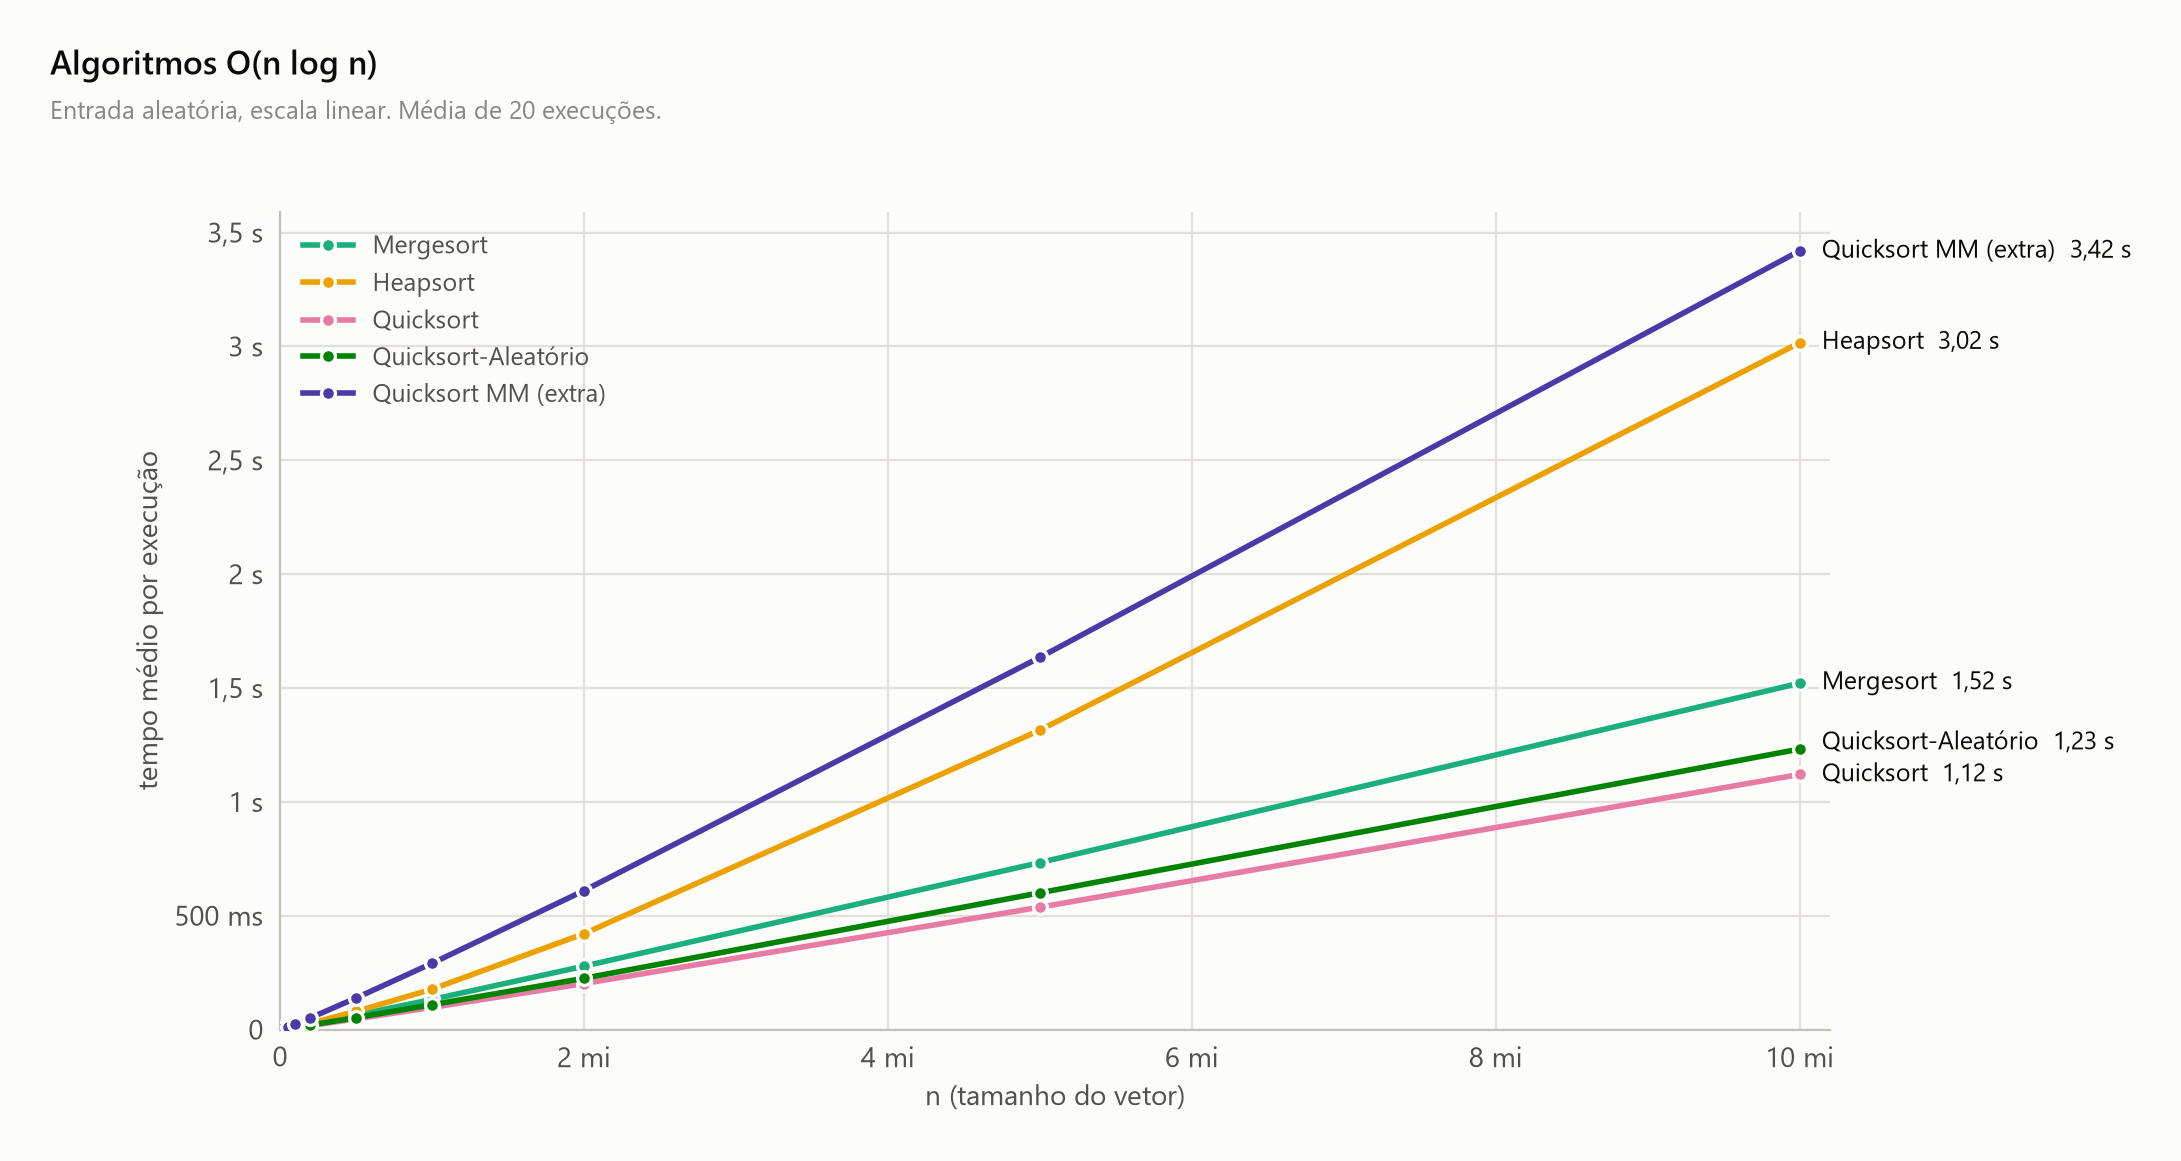
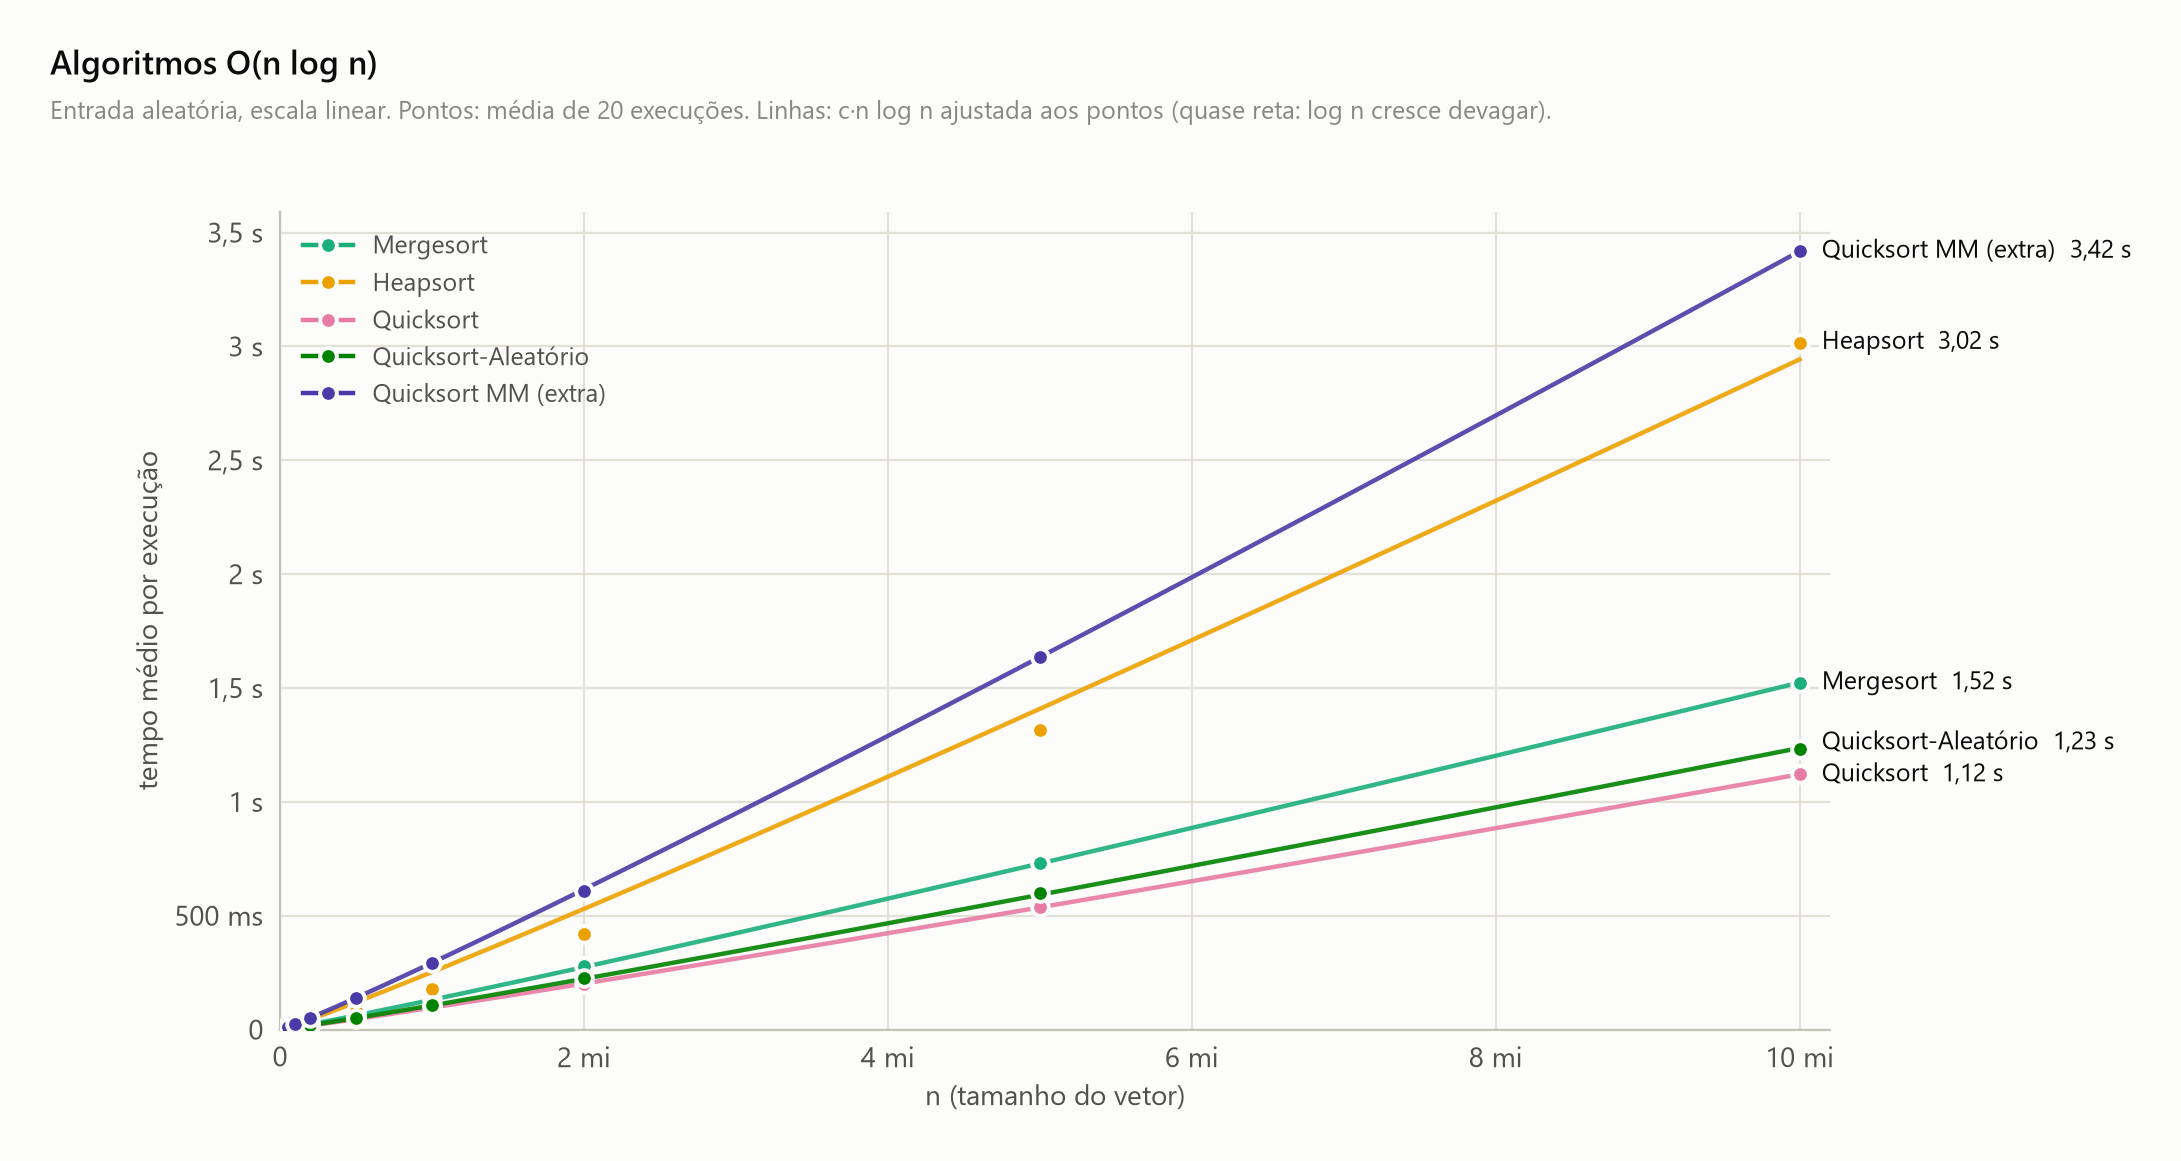
Gráficos 1 e 2: pontos medidos sobre a curva teórica ajustada
As médias passam a ser desenhadas como pontos, e por trás deles a curva
c·n² ou c·n log n ajustada por mínimos quadrados. Com os tamanhos em
progressão geométrica, ligar os pontos por retas escondia a parábola.

diff --git a/analise/analise.py b/analise/analise.py
@@ -194,6 +194,19 @@ def linha(ax, x, y, cor, rotulo=None, banda=None):
             label=rotulo, zorder=3)
 
 
+def pontos_e_curva(ax, d, classe, cor, rotulo, x_max):
+    """Media medida como pontos soltos e, por tras, a curva c*f(n) ajustada
+    por minimos quadrados (t = c*f(n), sem intercepto), desenhada continua."""
+    x, y = d["n"].to_numpy(float), d["mean"].to_numpy()
+    f = FUNCOES[classe]
+    c = np.sum(y * f(x)) / np.sum(f(x) ** 2)
+    grade = np.linspace(max(1.0, x_max / 1000), x_max, 400)
+    ax.plot(grade, c * f(grade), "-", color=cor, lw=1.6, alpha=0.9, zorder=2)
+    ax.plot(x, y, "o", color=cor, ms=6, mec=SUPERFICIE, mew=1.4, zorder=3)
+    return plt.Line2D([], [], color=cor, lw=1.6, marker="o", ms=6, mec=SUPERFICIE,
+                      mew=1.4, label=rotulo)
+
+
 def rotulos_finais(ax, itens, sep_pt=12):
     """Rotulo no fim de cada linha, afastando os que colidem.
     itens: lista de (x, y, texto, cor)."""
@@ -233,13 +246,15 @@ alcas_ent = [plt.Line2D([], [], color=COR_ENT[e], lw=2, marker="o", ms=5,
 # ============ 4. Grafico 1: o abismo entre n² e n log n (escala linear) ============
 fig, ax = plt.subplots(figsize=(10, 5.6), dpi=DPI)
 itens = []
+alcas = []
 for alg in ALGORITMOS:
     d = dados(rt, alg, "aleatorio")
     d = d[d["n"] <= N_QUAD]
     if d.empty:
         continue
     x, y = d["n"].to_numpy(float), d["mean"].to_numpy()
-    linha(ax, x, y, COR_ALG[alg], NOME_ALG[alg])
+    alcas.append(pontos_e_curva(ax, d, classe_teorica(alg, "aleatorio"),
+                                COR_ALG[alg], NOME_ALG[alg], N_QUAD))
     if alg in ("insertion_sort", "selection_sort"):
         itens.append((x[-1], y[-1], f"{NOME_ALG[alg]}  {fmt_tempo(y[-1])}", COR_ALG[alg]))
 pior_rapido = max(valor(rt, a, "aleatorio", N_QUAD) for a in RAPIDOS)
@@ -254,19 +269,21 @@ rotulos_finais(ax, itens)
 ax.annotate(f"O(n log n): todos < {fmt_tempo(pior_rapido)}", xy=(N_QUAD, pior_rapido),
             xytext=(-12, 10), textcoords="offset points", ha="right", va="bottom",
             fontsize=8.5, color=TINTA_FRACA)
-ax.legend(loc="upper left", ncol=2, fontsize=9)
+ax.legend(handles=alcas, loc="upper left", ncol=2, fontsize=9)
 titulo(fig, "O(n²) x O(n log n)",
-       f"Entrada aleatória, escala linear. Média de {REP_T} execuções.")
+       f"Entrada aleatória, escala linear. Pontos: média de {REP_T} execuções. "
+       "Linhas: c·n² e c·n log n ajustadas aos pontos.")
 fig.subplots_adjust(top=0.84)
 salvar(fig, "01_n2_vs_nlogn.png")
 
 # ============ 5. Grafico 2: os algoritmos O(n log n) (escala linear) ============
 fig, ax = plt.subplots(figsize=(10, 5.6), dpi=DPI)
 itens = []
+alcas = []
 for alg in RAPIDOS:
     d = dados(rt, alg, "aleatorio")
     x, y = d["n"].to_numpy(float), d["mean"].to_numpy()
-    linha(ax, x, y, COR_ALG[alg], NOME_ALG[alg])
+    alcas.append(pontos_e_curva(ax, d, "n log n", COR_ALG[alg], NOME_ALG[alg], N_MAX))
     itens.append((x[-1], y[-1], f"{NOME_ALG[alg]}  {fmt_tempo(y[-1])}", COR_ALG[alg]))
 estilo(ax)
 ax.set_xlim(0, N_MAX * 1.02)
@@ -276,9 +293,10 @@ ax.yaxis.set_major_formatter(mticker.FuncFormatter(fmt_tempo))
 ax.set_xlabel("n (tamanho do vetor)")
 ax.set_ylabel("tempo médio por execução")
 rotulos_finais(ax, itens)
-ax.legend(loc="upper left", fontsize=9)
+ax.legend(handles=alcas, loc="upper left", fontsize=9)
 titulo(fig, "Algoritmos O(n log n)",
-       f"Entrada aleatória, escala linear. Média de {REP_T} execuções.")
+       f"Entrada aleatória, escala linear. Pontos: média de {REP_T} execuções. "
+       "Linhas: c·n log n ajustada aos pontos (quase reta: log n cresce devagar).")
 fig.subplots_adjust(top=0.84)
 salvar(fig, "02_algoritmos_nlogn.png")
 
